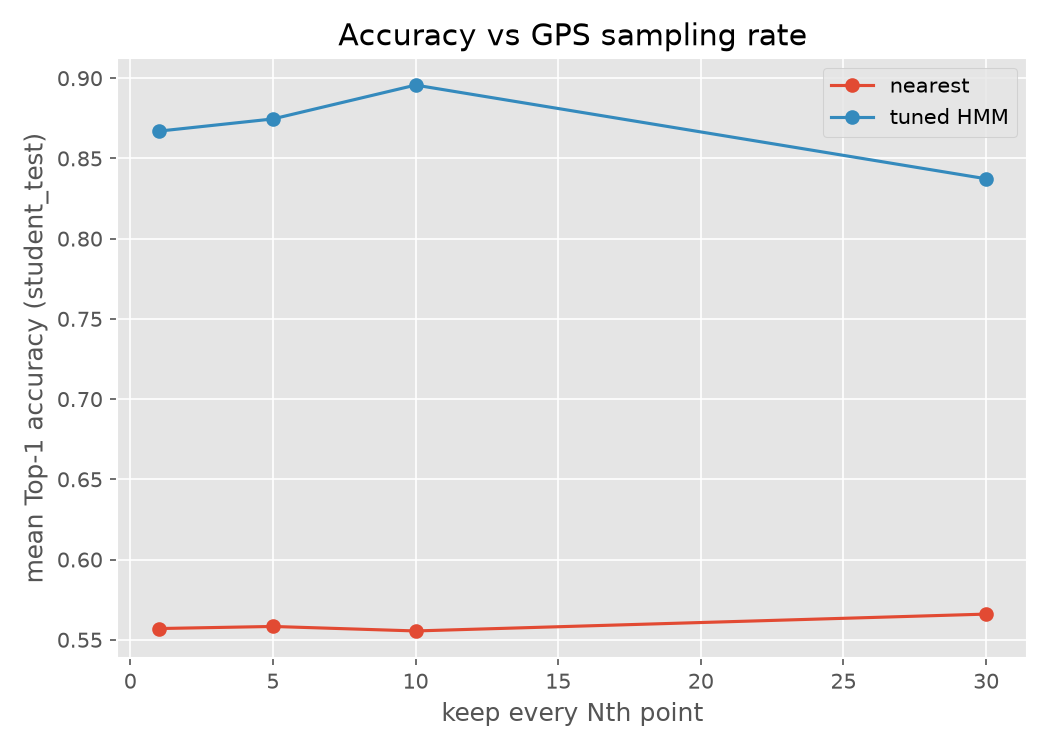
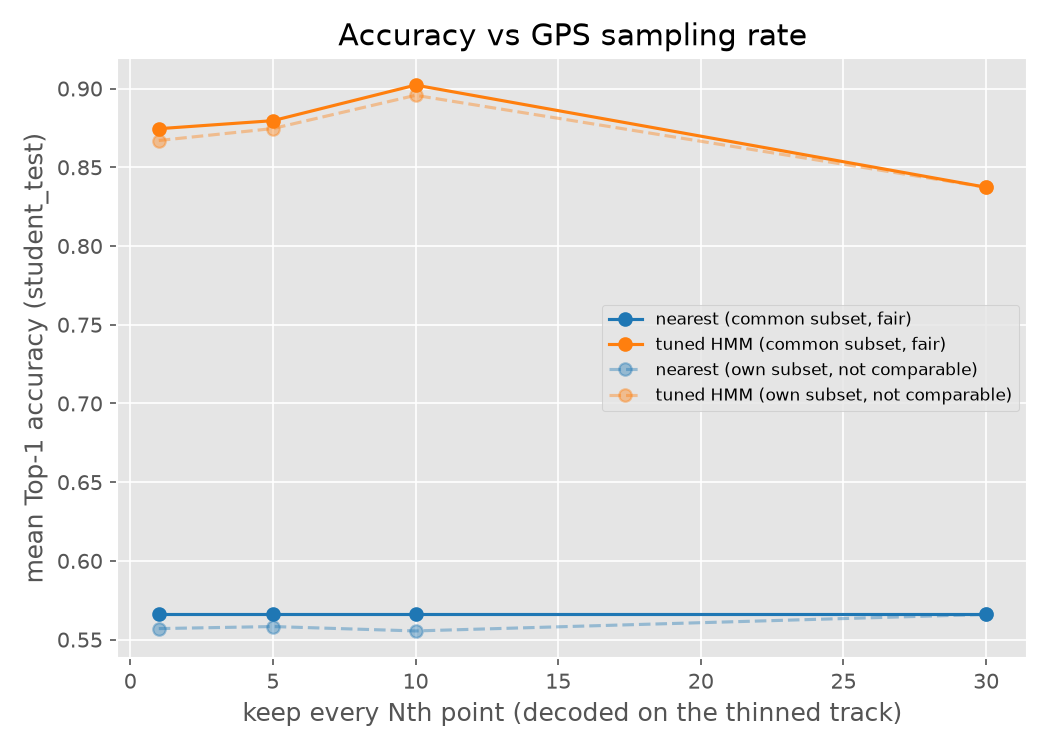
Score sampling-rate test on a common point subset; add U-turn penalty plateau check

diff --git a/pathsnap/experiments/sampling_rate.py b/pathsnap/experiments/sampling_rate.py
@@ -1,9 +1,21 @@
-"""Task-3 step 4: how much does a lower GPS sampling rate hurt accuracy?
+"""Task-3 step 4 (fixed in 3c-1): how much does a lower GPS sampling rate
+hurt accuracy?
 
 Keeps every 1st/5th/10th/30th point of each student_test trip (same
 candidates, re-run the decoder on the sparser sequence so segmentation/gaps
 react to the larger time steps exactly as they would on real low-rate GPS),
 and compares nearest-candidate vs tuned-HMM Top-1.
+
+Fairness fix: scoring Top-1 on each rate's OWN thinned subset isn't
+comparable across rates -- a sparser subset can look "easier" or "harder"
+just because it's a different set of points, not because of the sampling
+rate itself (e.g. step=30 was scoring on 1/30 of the points, not the same
+points step=1 is scored on). Since every step here divides 30, the step=30
+index set (multiples of 30) is a subset of every other step's index set, so
+it's used as the COMMON subset: every rate's Top-1 is also reported scored
+ONLY on those shared obs_idx, which makes the four rates directly
+comparable. The old per-rate ("own subset") numbers are kept alongside,
+clearly labelled, for reference.
 
     python -m pathsnap.experiments.sampling_rate
 
@@ -22,6 +34,8 @@ from pathsnap.predict import load_config
 STUDENT_TEST_DIR = Path("data/student_test")
 OUT_CSV = Path("results/sampling_rate.csv")
 STEPS = [1, 5, 10, 30]
+COMMON_STEP = max(STEPS)
+assert all(COMMON_STEP % s == 0 for s in STEPS), "COMMON_STEP must be a multiple of every step"
 
 
 def main():
@@ -37,26 +51,38 @@ def main():
             folder, name, cfg["radius"], cfg["gap_s"])
         times = track[:, 2]
         labels = load_point_labels(name)
-        label_arc = labels["label_arc"].to_numpy()
+
+        common_idx = np.arange(0, len(xy), COMMON_STEP)
+        common_labels = labels.iloc[common_idx].reset_index(drop=True)
 
         for step in STEPS:
             idx = np.arange(0, len(xy), step)
             sub_cands = [cands[i] for i in idx]
-            sub_labels = labels.iloc[idx].reset_index(drop=True)
+            own_labels = labels.iloc[idx].reset_index(drop=True)
 
             nearest = np.array([min(c, key=lambda x: x[1])[0] if c else -1 for c in sub_cands])
-            nearest_top1 = top1(nearest, sub_labels)
-
             point_arcs, _, _ = decode_trip(net, xy[idx], times[idx], sub_cands, cfg=cfg)
-            hmm_top1 = top1(point_arcs, sub_labels)
             net.clear_cache()
 
-            rows.append(dict(trip=name, step=step, points=len(idx),
-                              nearest_top1=round(nearest_top1, 4),
-                              hmm_top1=round(hmm_top1, 4)))
+            # idx is a multiple of `step`; common_idx is a multiple of COMMON_STEP, which is
+            # itself a multiple of step, so every common_idx value is in idx at position
+            # common_idx // step.
+            common_pos = common_idx // step
+            nearest_common_top1 = top1(nearest[common_pos], common_labels)
+            hmm_common_top1 = top1(point_arcs[common_pos], common_labels)
+
+            rows.append(dict(
+                trip=name, step=step, points=len(idx), common_points=len(common_idx),
+                nearest_top1_own_subset=round(top1(nearest, own_labels), 4),
+                hmm_top1_own_subset=round(top1(point_arcs, own_labels), 4),
+                nearest_top1_common=round(nearest_common_top1, 4),
+                hmm_top1_common=round(hmm_common_top1, 4),
+            ))
 
     df = pd.DataFrame(rows)
-    means = df.groupby("step")[["points", "nearest_top1", "hmm_top1"]].mean().round(4).reset_index()
+    mean_cols = ["points", "common_points", "nearest_top1_own_subset", "hmm_top1_own_subset",
+                 "nearest_top1_common", "hmm_top1_common"]
+    means = df.groupby("step")[mean_cols].mean().round(4).reset_index()
     means.insert(0, "trip", "MEAN")
     means = means[df.columns]
     out = pd.concat([df, means], ignore_index=True)

diff --git a/pathsnap/hmm/uturn_plateau.py b/pathsnap/hmm/uturn_plateau.py
@@ -1,0 +1,95 @@
+"""Task 3c-2: U-turn-penalty plateau check -- no new Optuna study.
+
+Holds sigma and beta at the current Optuna best and sweeps uturn_penalty
+across a wide range (including values far past the tuned range's edge, up
+to 1000) using the training cache, to see whether mean Top-1 actually
+flattens out past ~28 -- justifying the Optuna search's upper bound in the
+report instead of re-tuning with an even wider range.
+
+    python -m pathsnap.hmm.uturn_plateau
+
+Writes results/uturn_plateau.csv and results/figures/uturn_plateau.png.
+"""
+from pathlib import Path
+
+import matplotlib
+matplotlib.use("Agg")
+import matplotlib.pyplot as plt
+import numpy as np
+import pandas as pd
+
+from pathsnap.evaluation.metrics import route_precision_recall, top1
+from pathsnap.hmm.decode_cache import score_trip
+from pathsnap.hmm.tune_decoder import _load_training_set
+from pathsnap.hmm.viterbi import build_route
+from pathsnap.predict import load_config
+
+SIGMA = 1.6788762605299112   # current Optuna best, held fixed
+BETA = 18.2956835903205      # current Optuna best, held fixed
+UTURN_VALUES = [0, 3, 10, 20, 28.2, 50, 100, 1000]
+
+OUT_CSV = Path("results/uturn_plateau.csv")
+OUT_PNG = Path("results/figures/uturn_plateau.png")
+
+
+def main():
+    cfg = load_config()
+    print("loading training cache + labels + networks ...")
+    training_set = _load_training_set(cfg)
+    print(f"loaded {len(training_set)} training trips")
+
+    rows = []
+    for uturn in UTURN_VALUES:
+        top1_scores, precisions, total_disc = [], [], 0
+        for trip in training_set:
+            idx, arc = score_trip(trip["cache"], SIGMA, BETA, uturn, cfg["no_path_logp"])
+            point_arcs = np.full(trip["n_points"], -1, dtype=np.int64)
+            point_arcs[idx] = arc
+            top1_scores.append(top1(point_arcs, trip["labels"]))
+
+            route, disconnections = build_route(trip["net"], point_arcs, cfg["connector_limit"])
+            total_disc += disconnections
+            precision, _ = route_precision_recall(trip["net"], route, trip["ref_route"])
+            if np.isfinite(precision):
+                precisions.append(precision)
+            trip["net"].clear_cache()
+
+        row = dict(uturn_penalty=uturn,
+                   mean_top1=round(float(np.mean(top1_scores)), 4),
+                   mean_route_precision=round(float(np.mean(precisions)), 4),
+                   total_disconnections=total_disc)
+        rows.append(row)
+        print(row)
+
+    df = pd.DataFrame(rows)
+    Path("results").mkdir(exist_ok=True)
+    df.to_csv(OUT_CSV, index=False)
+    print(f"wrote {OUT_CSV}")
+
+    fig, ax1 = plt.subplots(figsize=(7, 5))
+    ax1.plot(df["uturn_penalty"], df["mean_top1"], "o-", color="tab:blue", label="mean Top-1 (train)")
+    ax1.set_xlabel(f"uturn_penalty (sigma={SIGMA:.2f}, beta={BETA:.2f} fixed)")
+    ax1.set_ylabel("mean Top-1 (train)", color="tab:blue")
+    ax1.tick_params(axis="y", labelcolor="tab:blue")
+    ax1.set_xscale("symlog")
+    ax1.axvline(28.2, color="gray", linestyle=":", linewidth=1, label="Optuna best (28.2)")
+
+    ax2 = ax1.twinx()
+    ax2.plot(df["uturn_penalty"], df["mean_route_precision"], "s--", color="tab:orange",
+             label="mean route precision")
+    ax2.set_ylabel("mean route precision", color="tab:orange")
+    ax2.tick_params(axis="y", labelcolor="tab:orange")
+
+    lines1, labels1 = ax1.get_legend_handles_labels()
+    lines2, labels2 = ax2.get_legend_handles_labels()
+    ax1.legend(lines1 + lines2, labels1 + labels2, loc="center right", fontsize=8)
+    ax1.set_title("U-turn penalty plateau (sigma/beta fixed at tuned best)")
+    fig.tight_layout()
+    OUT_PNG.parent.mkdir(parents=True, exist_ok=True)
+    fig.savefig(OUT_PNG, dpi=150)
+    plt.close(fig)
+    print(f"wrote {OUT_PNG}")
+
+
+if __name__ == "__main__":
+    main()

diff --git a/pathsnap/experiments/plots.py b/pathsnap/experiments/plots.py
@@ -59,16 +59,26 @@ def plot_top1_per_trip():
 
 
 def plot_sampling_rate():
+    """Solid lines: Top-1 scored on the common subset (multiples of 30),
+    the fair, rate-to-rate comparable number. Dashed/faint: the old
+    own-subset numbers, kept for reference only -- they score each rate on
+    a different set of points, so they are NOT comparable across rates."""
     df = pd.read_csv(SAMPLING_CSV)
     means = df[df["trip"] == "MEAN"].sort_values("step")
 
     fig, ax = plt.subplots(figsize=(7, 5))
-    ax.plot(means["step"], means["nearest_top1"], "o-", label="nearest")
-    ax.plot(means["step"], means["hmm_top1"], "o-", label="tuned HMM")
-    ax.set_xlabel("keep every Nth point")
+    ax.plot(means["step"], means["nearest_top1_common"], "o-", color="tab:blue",
+            label="nearest (common subset, fair)")
+    ax.plot(means["step"], means["hmm_top1_common"], "o-", color="tab:orange",
+            label="tuned HMM (common subset, fair)")
+    ax.plot(means["step"], means["nearest_top1_own_subset"], "o--", color="tab:blue",
+            alpha=0.4, label="nearest (own subset, not comparable)")
+    ax.plot(means["step"], means["hmm_top1_own_subset"], "o--", color="tab:orange",
+            alpha=0.4, label="tuned HMM (own subset, not comparable)")
+    ax.set_xlabel("keep every Nth point (decoded on the thinned track)")
     ax.set_ylabel("mean Top-1 accuracy (student_test)")
     ax.set_title("Accuracy vs GPS sampling rate")
-    ax.legend()
+    ax.legend(fontsize=8)
     fig.tight_layout()
     fig.savefig(FIG_DIR / "sampling_rate_curve.png", dpi=150)
     plt.close(fig)
@@ -81,6 +91,7 @@ def main():
     plot_top1_per_trip()
     plot_sampling_rate()
     print(f"wrote plots to {FIG_DIR}")
+    print("(uturn_plateau.png is written by pathsnap.hmm.uturn_plateau)")
 
 
 if __name__ == "__main__":
